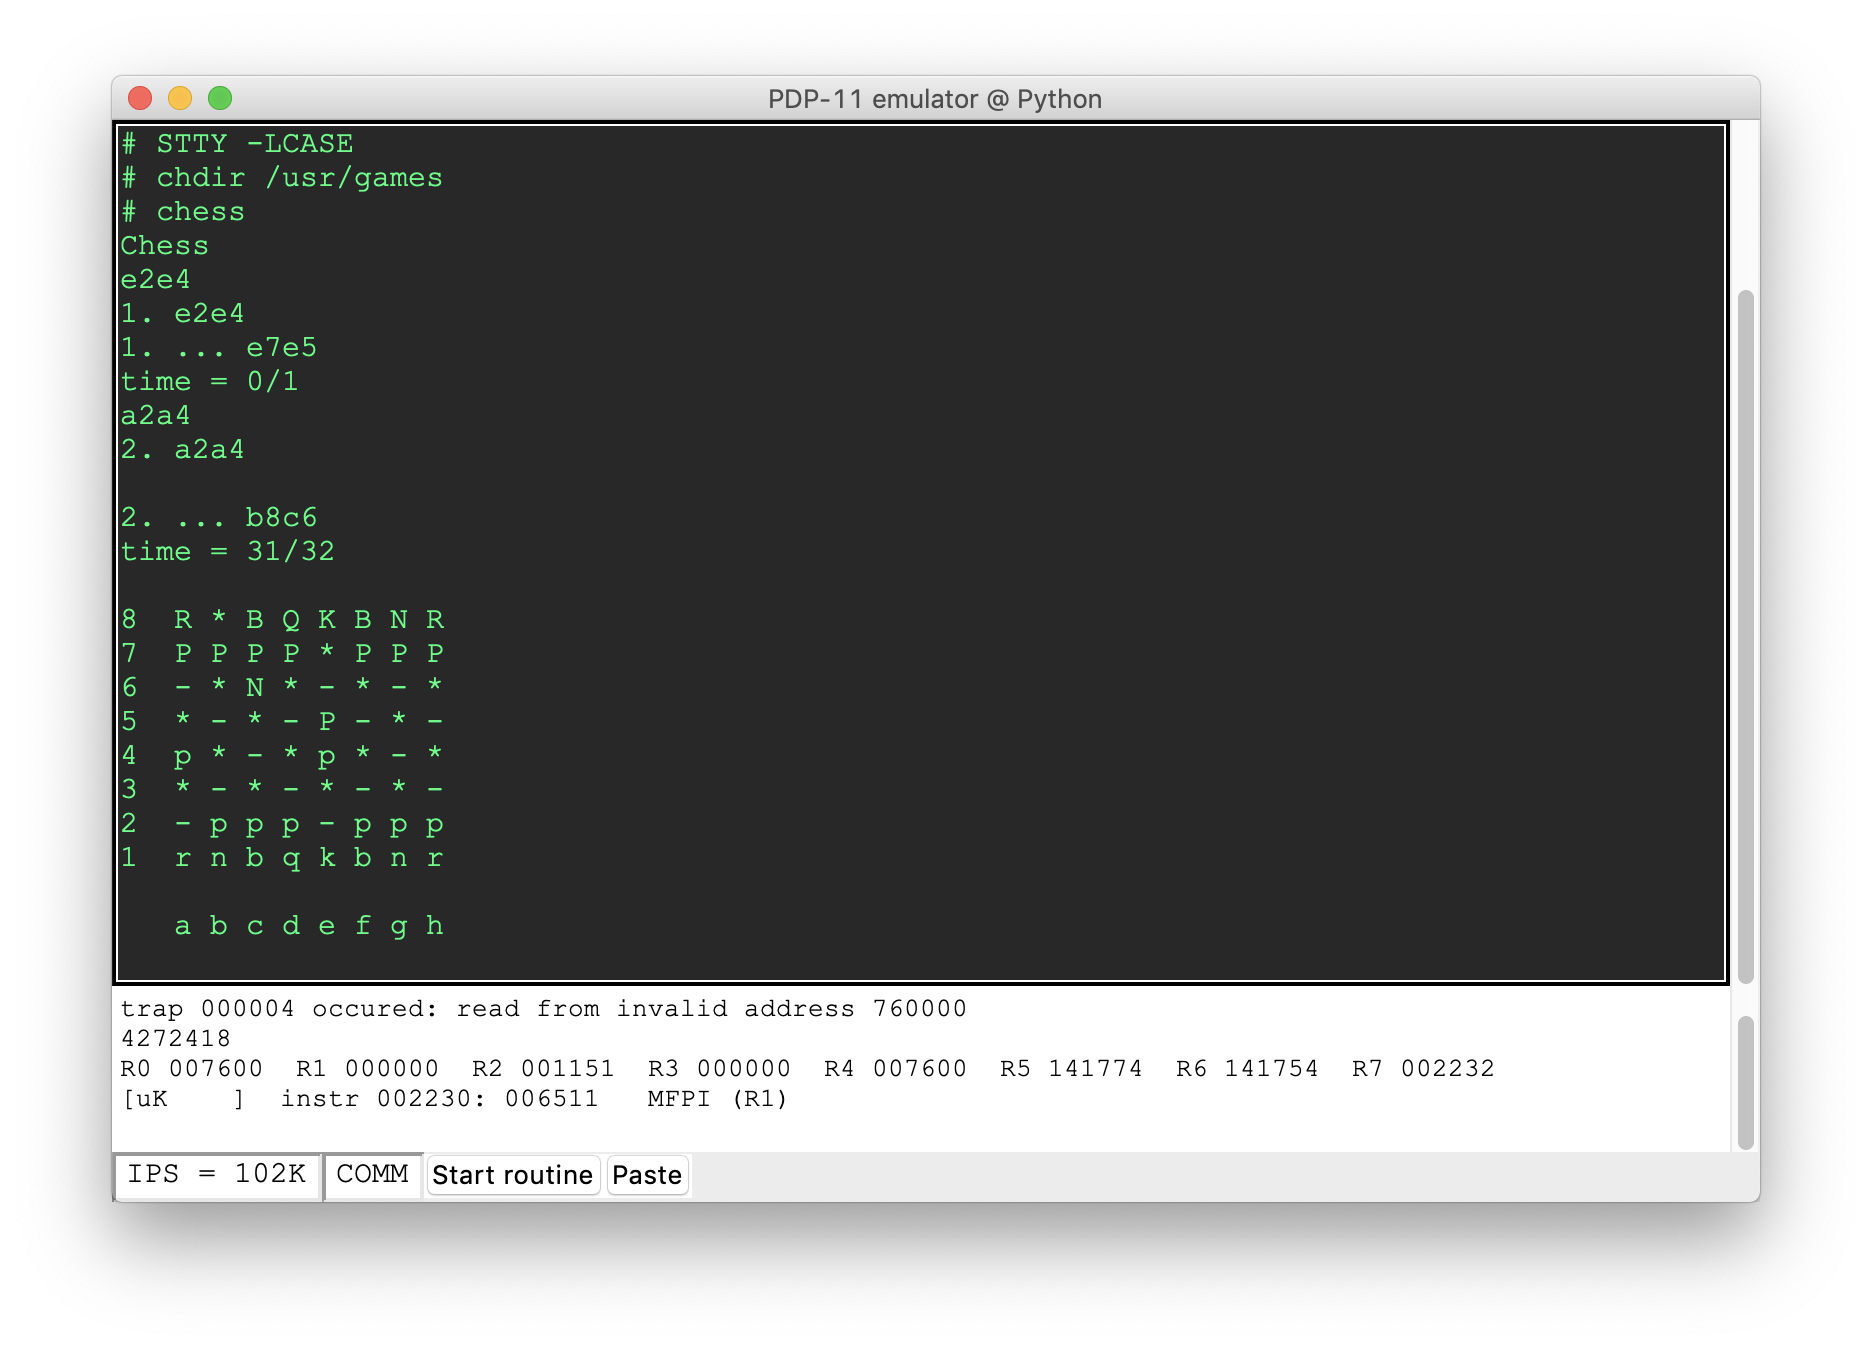
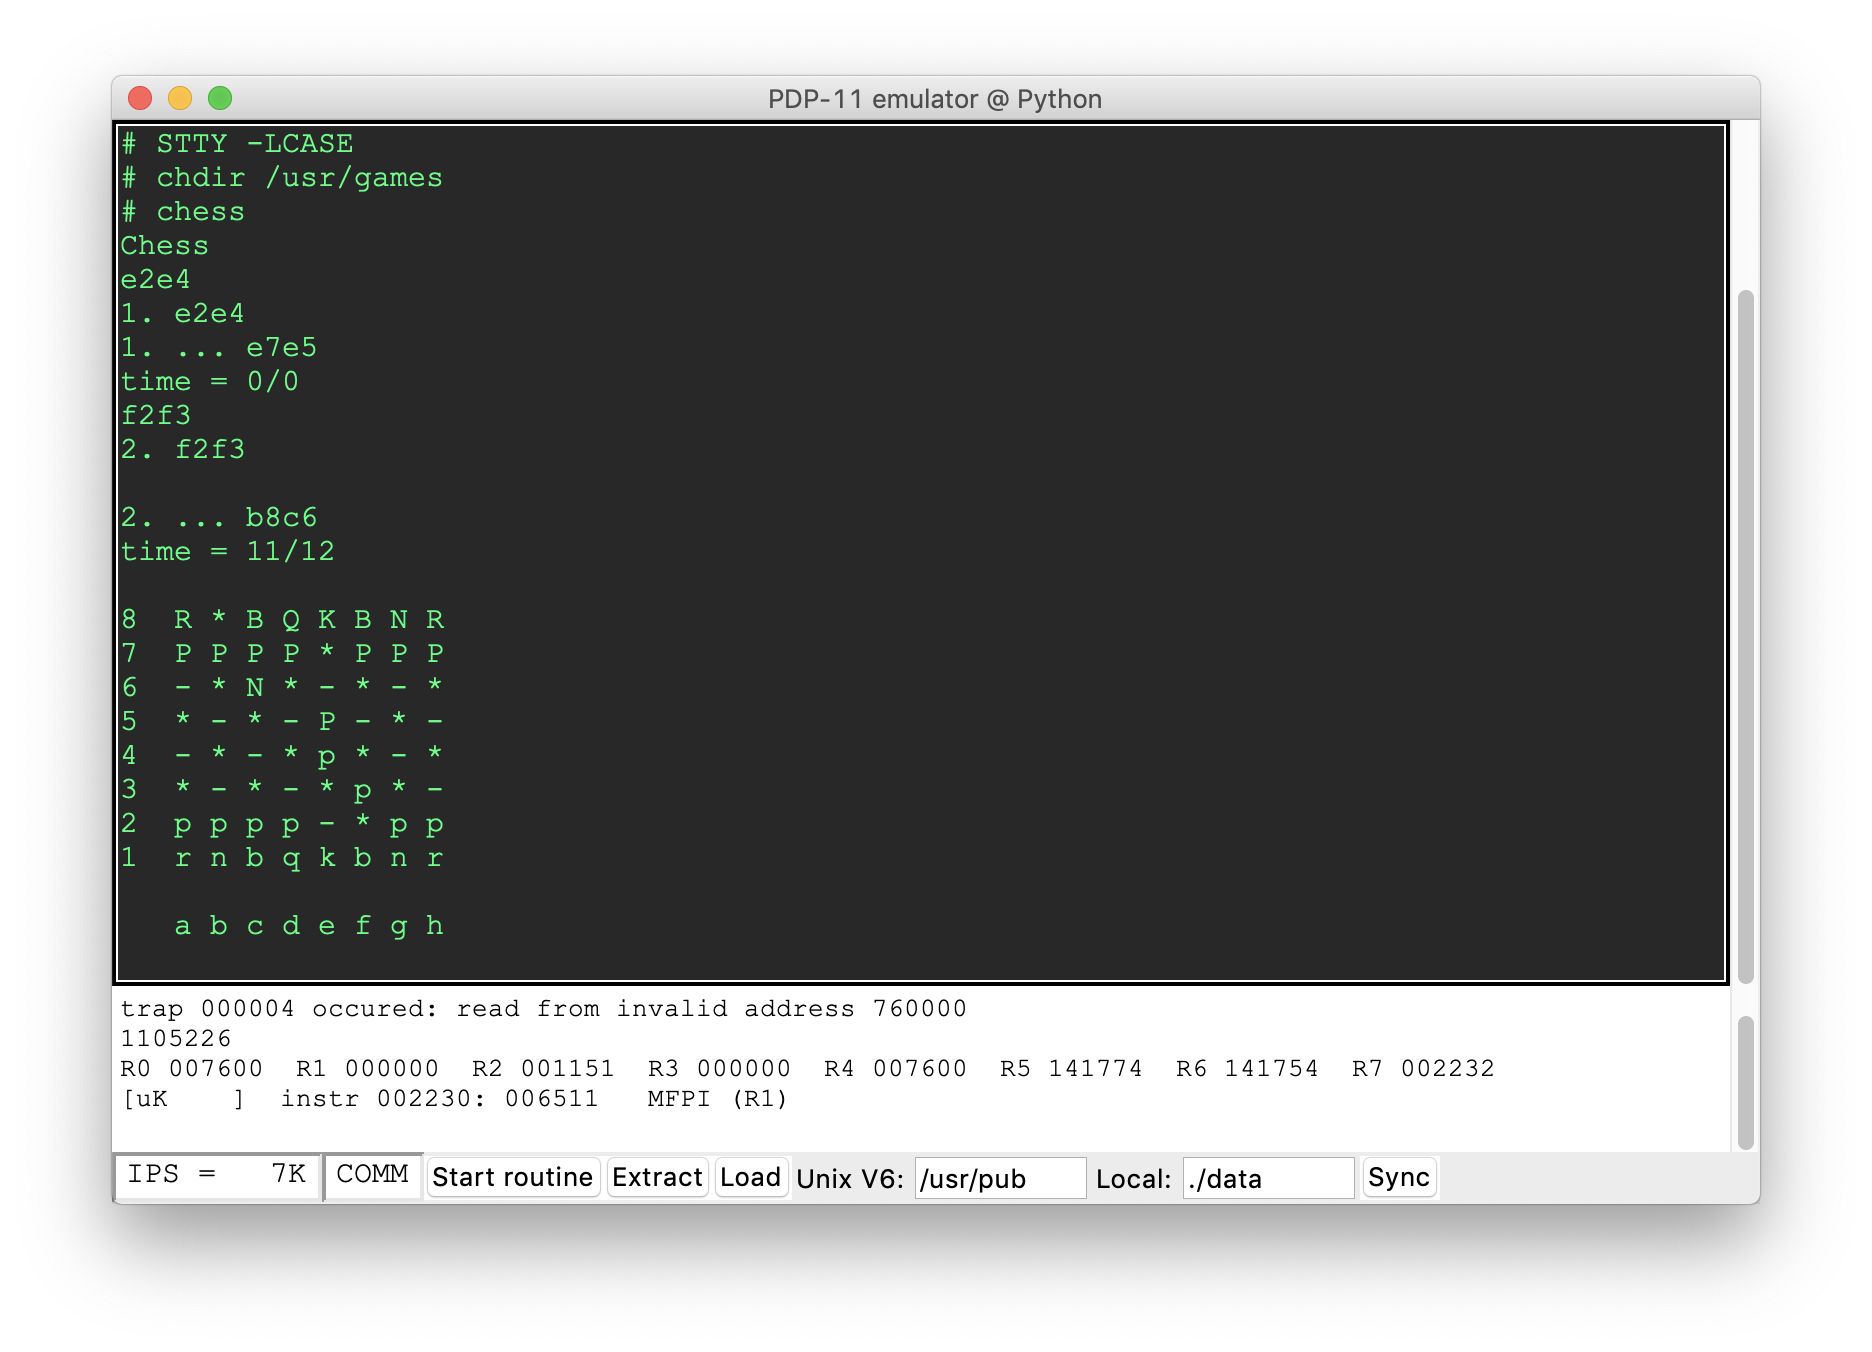
Syncing a directory added to GUI

diff --git a/unix_v6_fs.py b/unix_v6_fs.py
@@ -5,7 +5,7 @@
 #     https://github.com/amakukha/PyPDP11
 # Copyright (c) 2019, Andriy Makukha, MIT Licence
 
-import struct, os, array, time, datetime
+import struct, os, array, time, datetime, io
 
 DISK_IMAGE_FILENAME = 'rk0.img'
 
@@ -154,51 +154,56 @@ class INode:
                 )
 
 class UnixV6FileSystem:
-    def __init__(self, filename):
-        self.f = open(filename, 'r+b')
+    def __init__(self, arg: str or bytes):
+        if isinstance(arg, str):
+            # Filename assumed
+            self.f = open(arg, 'r+b')
+        elif isinstance(arg, bytes):
+            # Actual data assumed
+            self.f = io.BytesIO(arg)
 
     def read_superblock(self):
         self.f.seek(BLOCK_SIZE)
         sup = Superblock(self.f)
         return sup
 
-    def write_block(self, blkn, data):
+    def write_block(self, blkn: int, data: bytes):
         if len(data) > BLOCK_SIZE:
             raise ValueError('data is too big to fit into one block')
         data += b'\x00' * (BLOCK_SIZE - len(data)) 
         self.f.seek(BLOCK_SIZE*blkn)
         self.f.write(data)
 
-    def write_superblock(self, sup):
+    def write_superblock(self, sup: Superblock):
         data = sup.serialize()
         self.write_block(1, data)
 
-    def read_i_node(self, i):
+    def read_i_node(self, i: int):
         self.f.seek(BLOCK_SIZE*2 + (i-1)*32)
         node = INode(self.f)
         node.inode = i          # remember its number for convenience
         return node
 
-    def write_i_node(self, node):
+    def write_i_node(self, node: INode):
         data = node.serialize()
         self.f.seek(BLOCK_SIZE*2 + (node.inode-1)*32)
         self.f.write(data)
 
-    def ensure_i_node(self, x):
+    def ensure_i_node(self, x: INode or int):
         if isinstance(x, INode):
             return x
         return self.read_i_node(x)
 
-    def read_flags(self, x):
+    def read_flags(self, x: INode or int):
         inode = self.ensure_i_node(x)
         return inode.flags_string()
 
-    def read_block(self, blkn):
+    def read_block(self, blkn: int):
         self.f.seek(BLOCK_SIZE*blkn)
         data = self.f.read(BLOCK_SIZE)
         return data
 
-    def yield_node_blocks(self, node, include_all=False):
+    def yield_node_blocks(self, node: INode or int, include_all=False) -> int:
         node = self.ensure_i_node(node)
         if node.size > BIGGEST_NOT_HUGE_SIZE:
             raise HugeFileError('huge files not implemented')
@@ -217,43 +222,24 @@ class UnixV6FileSystem:
                     if n == 0: return
                     yield n
 
-    def read_file(self, node):
+    def read_file(self, node: INode or int):
         node = self.ensure_i_node(node)
         contents = b''
         for n in self.yield_node_blocks(node):
             contents += self.read_block(n)
         return contents[:node.size]
         
-        #node = self.ensure_i_node(args[0])
-        #if node.size > BIGGEST_NOT_HUGE_SIZE:
-        #    raise ValueError('huge files not implemented')
-        #contents = b''
-        #if not node.is_large():
-        #    for n in node.addr:
-        #        if n == 0: break
-        #        contents += self.read_block(n)
-        #else:
-        #    for blk in node.addr:
-        #        indirect_block = self.read_block(blk)
-        #        for i in range(0, len(indirect_block), 2):
-        #            n = struct.unpack('H', indirect_block[i:i+2])[0]
-        #            if n == 0: break
-        #            contents += self.read_block(n)
-        #        if n == 0: break
-        #contents = contents[:node.size]
-        #return contents
-
-    def sum_file(self, *args):
+    def sum_file(self, x: bytes or INode or int):
         '''
         This computes the same file checksum as Unix V6's `sum` utility.
 
         The algorithm of the checksum was explained by user `palupicu`:
             https://unix.stackexchange.com/a/526658/274235
         '''
-        if type(args[0])==bytes:
-            data = args[0]
+        if isinstance(x, bytes):
+            data = x
         else:
-            data = self.read_file(*args)
+            data = self.read_file(x)
         s = 0
         for c in data:
             s += c if c <= 0x7F else (c | 0xFF00)
@@ -331,9 +317,9 @@ class UnixV6FileSystem:
             local_fn = os.path.join(local_dir, uitem[0])
             self.download_file(uitem[3], local_fn)
             # Set the synced flags
-            #lmtime = int(os.stat(local_fn).st_mtime)
-            #uitem[3].modtime = SYNCED_BY_PYPDP11 | (0xFFFFFF & lmtime)
-            #self.write_i_node(uitem[3])
+            lmtime = int(os.stat(local_fn).st_mtime)
+            uitem[3].modtime = SYNCED_BY_PYPDP11 | (0xFFFFFF & lmtime)
+            self.write_i_node(uitem[3])
 
         def upload(litem, udir):
             print('UPLOAD: {} into {}'.format(litem[1], unix_dir))

diff --git a/pdp11.py b/pdp11.py
@@ -15,7 +15,7 @@ from cons import Terminal, ostr
 from interrupt import Interrupt
 from disasm import DISASM_TABLE
 
-EXTRACTED_IMAGE = 'extracted.img'
+EXTRACTED_IMAGE_FILENAME = 'extracted.img'
 INT = Interrupt     # shorthand for Interrupt
 
 class Trap(Exception):
@@ -40,7 +40,7 @@ class PDP11:
     FLAGV = 2
     FLAGC = 1
 
-    BOOTROM = [
+    BOOTROM = [                          ## (PAL-11 assembly)
         0o042113,                        ## "KD" 
         0o012706, 0o2000,                ## MOV #boot_start, SP 
         0o012700, 0o000000,              ## MOV #unit, R0        ; unit number 
@@ -439,7 +439,7 @@ class PDP11:
     def panic(self, msg):
         self.writedebug('PANIC: ' + msg + '\n')
         self.printstate()
-        self.stop()
+        self.stop_cpu()
         raise Exception(msg)
 
     def interrupt(self, vec, pri):
@@ -474,12 +474,16 @@ class PDP11:
 
     def handleinterrupt(self, vec):
         # PyPDP11 interrupts
-        if vec == INT.LoadImage:
-            self.load_image()
-            return
-        elif vec == INT.ExtractImage:
-            self.extract_image() 
-            return
+        if vec & 0o400:
+            if vec == INT.LoadImage:
+                self.load_image()
+                return
+            elif vec == INT.ExtractImage:
+                self.extract_image() 
+                return
+            elif vec == INT.Synchronize:
+                self.sync() 
+                return
         # PDP-11 interrupts
         try:
             prev = self.PS
@@ -575,17 +579,23 @@ class PDP11:
         self.R[7] += o
 
     def extract_image(self):
-        # This function is called by the GUI
-        self.rk.save_image(EXTRACTED_IMAGE)
-        self.writedebug('Disk image saved to: {}\n'.format(EXTRACTED_IMAGE))
+        # Called on PyPDP11 interrupt
+        self.rk.save_image(EXTRACTED_IMAGE_FILENAME)
+        self.writedebug('Disk image saved to: {}\n'.format(EXTRACTED_IMAGE_FILENAME))
 
     def load_image(self):
-        # This function is called by the GUI
-        self.rk.load_image(EXTRACTED_IMAGE)
-        self.writedebug('Disk image loaded from file: {}\n'.format(EXTRACTED_IMAGE))
+        # Called on PyPDP11 interrupt
+        self.rk.load_image(EXTRACTED_IMAGE_FILENAME)
+        self.writedebug('Disk image loaded from file: {}\n'.format(EXTRACTED_IMAGE_FILENAME))
 
-    def sync(self, unix_dir, local_dir):
-        print (unix_dir, local_dir)
+    def sync(self):
+        # Called on PyPDP11 interrupt
+        unix_dir, local_dir = self.unix_dir, self.local_dir
+        print('Syncing:', unix_dir, local_dir)
+        try:
+            self.rk.sync(unix_dir, local_dir)
+        except Exception as e:
+            self.writedebug('FAILED TO SYNC: '+str(e))
 
     def step(self):
         #var val, val1, val2, ia, da, sa, d, s, l, r, o, max, maxp, msb;
@@ -1164,7 +1174,7 @@ class PDP11:
             if not self.curuser:
                 self.writedebug("HALT\n")
                 self.printstate()
-                self.stop()
+                self.stop_cpu()
                 return
         elif bits == 0o000001: # WAIT
             #time.sleep(0.001)
@@ -1238,6 +1248,7 @@ class PDP11:
     def stop_cpu(self):
         print('Stopping CPU...')
         self.clock_stop.set()
+        print('Stopping clock...')
         self.cpu_stop.set()
 
 if __name__=='__main__':

diff --git a/rk05.py b/rk05.py
@@ -8,6 +8,7 @@
 
 import time, array
 from interrupt import Interrupt
+from unix_v6_fs import UnixV6FileSystem
 
 class System:
     
@@ -47,11 +48,12 @@ class RK05:
         if len(self.disk) != RK05.EXPECTED_IMAGE_LENGTH:
             self.system.panic('unexpected image length {} != {}'.format(len(self.disk), RK05.EXPECTED_IMAGE_LENGTH))
         print ('Disk image loaded:', len(self.disk))
-        max_bytes = 0o313*0o14*2*512
-        if len(self.disk) < max_bytes:
-            extend_by = max_bytes - len(self.disk)
-            self.disk.extend(bytearray(extend_by*[0])) 
-            print (' - free space:', extend_by)
+        # TODO: extend image with free bytes, but also add those blocks to the free blocks chain
+        #max_bytes = 0o313*0o14*2*512        # 4872 blocks, 2494464 bytes
+        #if len(self.disk) < max_bytes:
+        #    extend_by = max_bytes - len(self.disk)
+        #    self.disk.extend(bytearray(extend_by*[0])) 
+        #    print (' - free space:', extend_by)
 
         # Position of the head
         self.drive = 0
@@ -66,6 +68,20 @@ class RK05:
 
     def load_image(self, filename):
         self.disk = bytearray(open(filename, 'rb').read())
+
+    def sync(self, unix_dir, local_dir):
+        # TODO: check if filesystem is locked
+        try:
+            hash0 = hash(bytes(self.disk))
+            fs = UnixV6FileSystem(bytes(self.disk))
+            fs.sync(unix_dir, local_dir)
+            fs.f.seek(0)
+            self.disk = bytearray(fs.f.read())
+            msg = 'Unix directory {} synced with local directory {}\n'.format(unix_dir, local_dir)
+            self.system.writedebug(msg)
+        except Exception as e:
+            raise e
+        return True
 
     def reset(self):
         # Reset registers to default values

diff --git a/cons.py b/cons.py
@@ -168,16 +168,18 @@ class Terminal(ttk.Frame):
             self.paste('stty -lcase\n')
 
     def extract_image(self):
+        # Button "Extract"
         self.system.interrupt(Interrupt.ExtractImage, 1)
 
     def load_image(self):
+        # Button "Load"
         self.system.interrupt(Interrupt.LoadImage, 1)
 
     def sync(self):
         # Bytton "Sync"
-        img_dir = self.sync1_entry.get()
-        loc_dir = self.sync2_entry.get()
-        self.system.sync(img_dir, loc_dir)
+        self.system.unix_dir = self.sync1_entry.get()
+        self.system.local_dir = self.sync2_entry.get()
+        self.system.interrupt(Interrupt.Synchronize, 1)
 
     def paste(self, what=''):
         if not what:
@@ -278,9 +280,10 @@ class Terminal(ttk.Frame):
             message = ''
             while not self.queue.empty():
                 ch = self.queue.get()
-                if ch == '\r': continue
+                if ch in '\r\x7f':          # ignored characters
+                    continue
                 message += ch
-                if len(message)>=80:    # avoid being here too long without update
+                if len(message)>=80:        # avoid cycling here for too long without update
                     break
             # Add text to the terminal
             self.console.print(message)

diff --git a/interrupt.py b/interrupt.py
@@ -22,8 +22,9 @@ class Interrupt:
     RK      = 0o220
 
     # PyPDP11: these event should be called with interrupt priority 0 (to be executed last)
-    ExtractImage = 0o420
-    LoadImage    = 0o440
+    ExtractImage = 0o410
+    LoadImage    = 0o420
+    Synchronize  = 0o440
 
     def __init__(self, vec, pri):
         self.vec = vec

diff --git a/README.md b/README.md
@@ -9,10 +9,13 @@ Example screenshots:
 <p align="center">
   <img
   src="https://github.com/amakukha/PyPDP11/raw/master/screenshots/Ken_Thompson_chess_1975_Unix_V5_PDP-11_emulator_for_Python_screenshot.png"
-  width="250" alt="PDP-11 emulator for Python 3. Playing with Ken Thompson's chess implementation in Version 6 Unix (1975).">
+  width="225" alt="PDP-11 emulator for Python 3. Playing with Ken Thompson's chess implementation in Version 6 Unix (1975).">
+  <img
+  src="https://github.com/amakukha/PyPDP11/raw/master/screenshots/Syncing_directory_PDP-11_emulator_Python_GUI_screenshot.png"
+  width="225" alt="PDP-11 emulator for Python 3. Syncing directory between Unix V6 and local filesystems.">
   <img
   src="https://github.com/amakukha/PyPDP11/raw/master/screenshots/TMG_in_TMGL_Doug_McIlroy_PDP-11_emulator_for_Python_screenshot.png"
-  width="250" alt="PDP-11 emulator for Python 3. Viewing code of Doug McIlroy's TMG in TMGL for Unix V6.">
+  width="225" alt="PDP-11 emulator for Python 3. Viewing code of Doug McIlroy's TMG in TMGL for Unix V6.">
 </p>
 
 ## Prerequisites
@@ -36,10 +39,9 @@ Note: Unix V6 used `chdir` command instead of `cd`. Issuing `stty -lcase` is nee
 Compared to the original JavaScript code, this implementation has the following benefits:
  - pasting text into the terminal from clipboard is allowed (making it much more usable)
  - resource friendlier `WAIT` instruction (not overheating the physical CPU)
+ - syncing a directory between Unix V6 and your machine
  - saving and loading the disk state
  - faster output 
-
-Syncing a directory between Unix V6 and your machine will be implemented in the near future.
 
 ## Where are the manuals?
 The disk image included into this repository misses on most
@@ -49,5 +51,5 @@ The disk image included into this repository misses on most
 It is unsurprising, knowing that RK05 disk could only contain around 2.5 MB of data, while the
 Unix V6 sources alone measure beyond that capacity.
 
-Complete UNIX V6 manual in searchable PDF can be found
+Complete Unix V6 manual in searchable PDF can be found
 [here](https://ia800600.us.archive.org/19/items/v6-manual/v6-manual.pdf).
